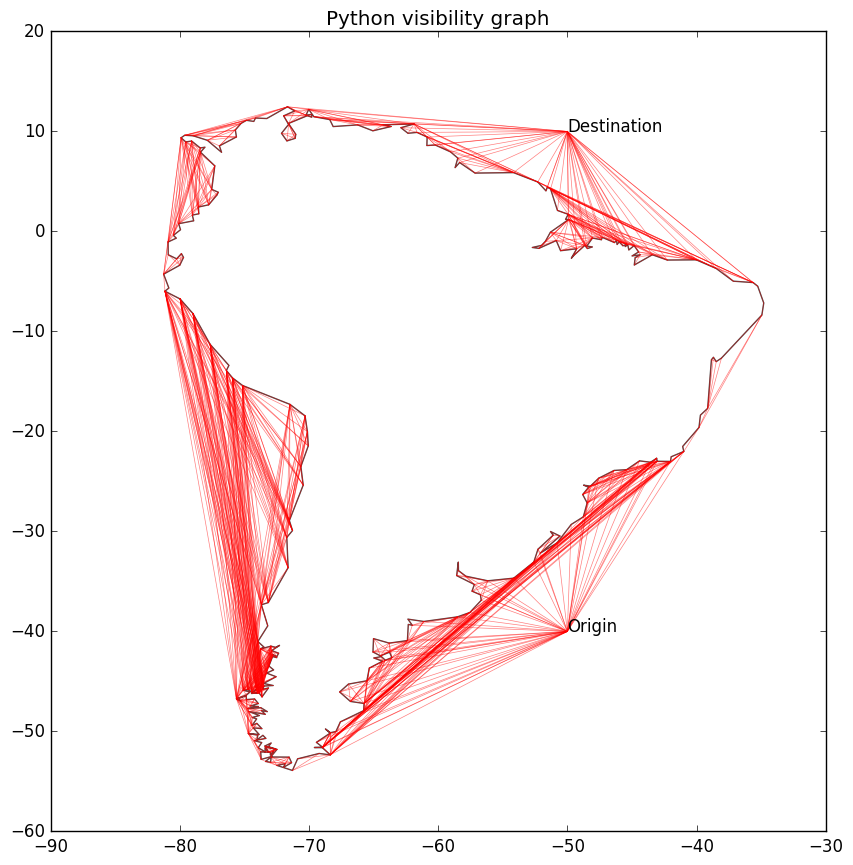
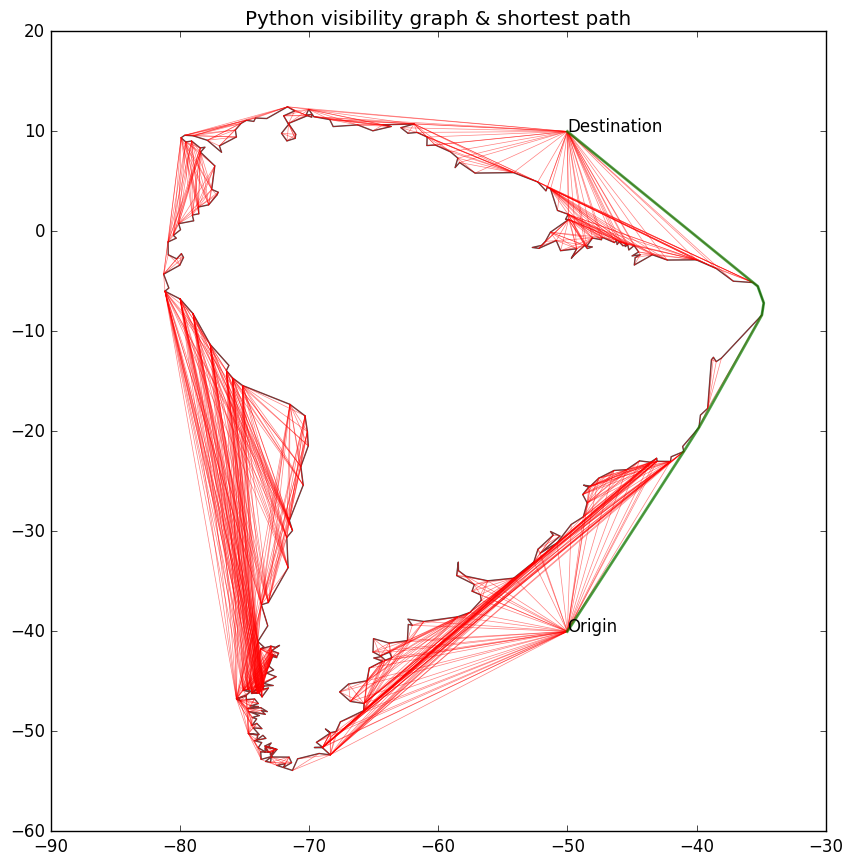
refactor point_in_polygon

diff --git a/visible_vertices.py b/visible_vertices.py
@@ -50,7 +50,7 @@ def visible_vertices(point, graph, ship, port):
                 is_visible = True
         ''' Check that visibility is not through a polygon.'''
         if is_visible and p.polygon_id == point.polygon_id and p not in graph.get_adjacent_points(point):
-            is_visible = point_in_poly(point, p, graph)
+            is_visible = point_in_polygon(point, p, graph)
 
         if is_visible:
             visible.append(p)
@@ -68,18 +68,19 @@ def visible_vertices(point, graph, ship, port):
     return visible
 
 
-def point_in_poly(p1, p2, graph):
-    pc1 = Point((p1.x+p2.x)/2, (p1.y+p2.y)/2)
-    pc2 = Point(10000000.0, pc1.y)
-    counts = 0
-    for e in graph.get_edges():
-        if e.points[0].polygon_id == p1.polygon_id:
-            if edge_intersect(pc1, pc2, e):
-                counts = counts + 1
-    if counts % 2 == 0:
+def point_in_polygon(p1, p2, graph):
+    mid_point = Point((p1.x+p2.x)/2, (p1.y+p2.y)/2)
+    mid_point_end = Point(float('inf'), mid_point.y)
+    intersect_count = 0
+    for edge in graph.get_edges():
+        ''' TODO: When make a Polygon class, must pull edges from that and not
+        from the whole graph as below '''
+        if edge.points[0].polygon_id == p1.polygon_id:
+            if edge_intersect(mid_point, mid_point_end, edge):
+                intersect_count += 1
+    if intersect_count % 2 == 0:
         return True
-    else:
-        return False
+    return False
 
 
 def angle2(point_a, point_b, point_c):

diff --git a/test_country.py b/test_country.py
@@ -18,7 +18,7 @@ def test_country():
 
     poly1 = [Point(a[0], a[1]) for a in shapes[4].points]
     graph = Graph([poly1])
-    ship = Point(-71, -20)
+    ship = Point(-50, -40)
     port = Point(-50, 10)
 
     fig = plt.figure(1, figsize=(10, 10), dpi=90)
@@ -58,7 +58,7 @@ def test_country():
     #print shortest
     ax.plot(x, y, color='green', alpha=0.7, linewidth=2.0)
 
-    ax.set_title("Python visibility graph")
+    ax.set_title("Python visibility graph & shortest path")
     ax.annotate('Origin', xytext=(ship.x,ship.y), xy=(ship.x,ship.y))
     ax.annotate('Destination', xytext=(port.x,port.y), xy=(port.x,port.y))
     fig.savefig("poly.png", bbox_inches='tight')
